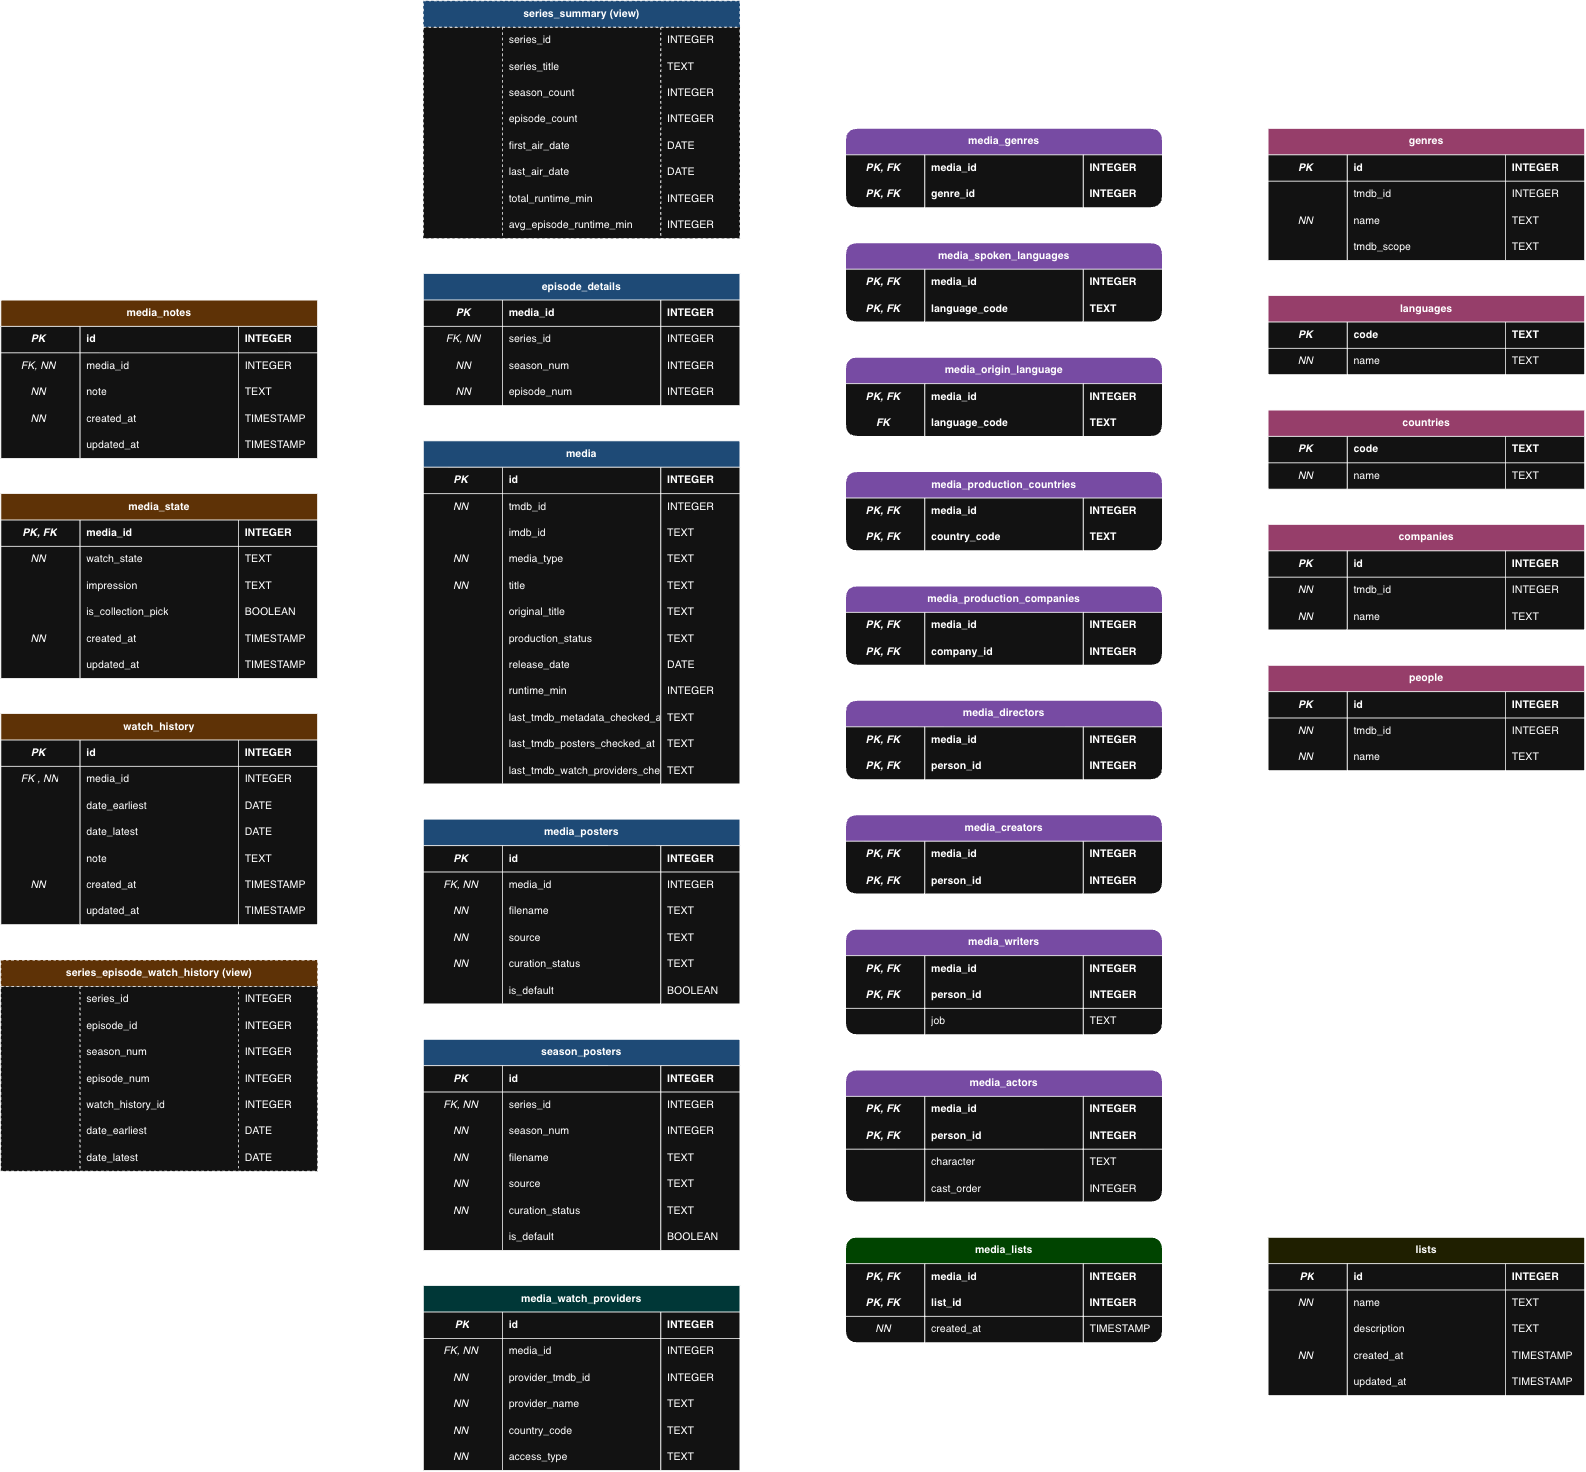
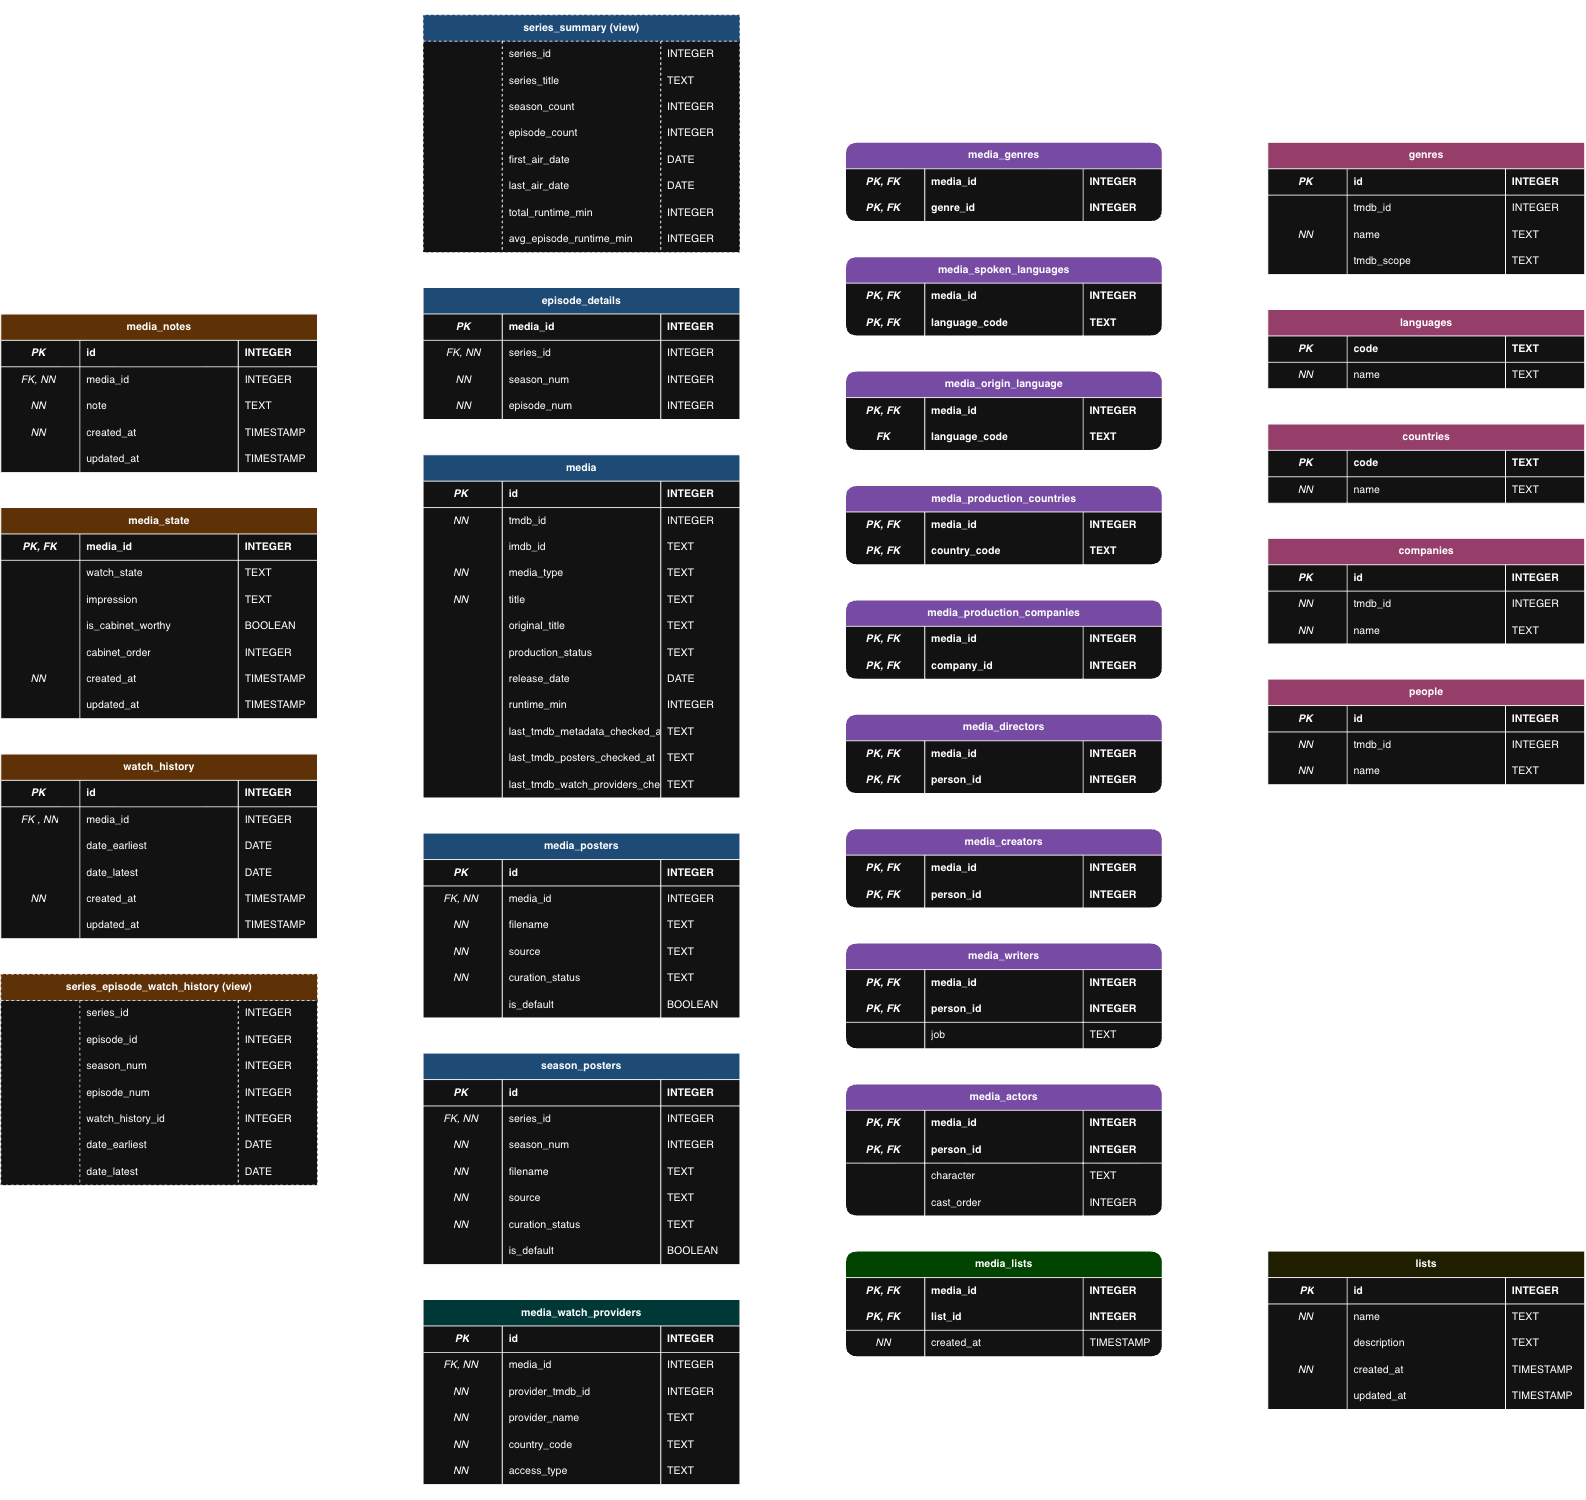
update readme

diff --git a/README.md b/README.md
@@ -1,5 +1,7 @@
 # My Watchlist+
 
+![My Watchlist+ Watchlist view](docs/images/app-overview-1.png)
+
 ## About the project
 
 This project is my (admittedly slightly overengineered) answer to a very simple problem: I wanted a watchlist for movies and TV series that I could truly make my own.
@@ -8,19 +10,22 @@ By that, I mean a local and independent experience where my data remains mine, a
 
 The result is a clean and enjoyable personal movie and TV series library, simple on the surface but detailed and flexible underneath, with plenty of room to explore and dig deeper.
 
-![My Watchlist+ application overview](docs/images/app-overview.png)
+![My Watchlist+ media details and History view](docs/images/app-overview-2.png)
 
 ## What it does
 
-- Find and add movies, TV series and individual episodes to your library
-- Use LLM-assisted search for title resolution and natural-language library queries
-- Retrieve and keep detailed metadata for every title
+- Add movies, TV series and individual episodes to your library
+- Find them using IMDb IDs, TMDB title search or optional AI-assisted lookup
+- Retrieve and store detailed metadata and poster artwork locally
 - Mark titles as *To Watch*, *Watched*, *Not Interested* or *Dropped* (for series)
-- Keep a complete and flexible watch history, including multiple viewings of the same title
-- Rate titles, keep notes, curate a personal collection and create custom lists
-- Choose and manage alternative posters for each title
-- Check streaming availability for a selected region
-- Filter, sort and pin titles to browse the collection
+- Record multiple viewings of the same title using exact dates, date ranges or none
+- Track series broadly or select the individual episodes watched in each viewing
+- Rate titles, keep notes and assign titles to custom lists
+- Build a personal *Cabinet* of favorite titles and arrange it in your own order
+- Choose, import and manage alternative posters for each title
+- Check subscription, rental and purchase availability for a selected region
+- Browse dedicated *Watchlist*, *History* and *Cabinet* views with adjustable poster layouts
+- Temporarily pin titles in the Watchlist to narrow down what to watch next
 
 ## Under the hood
 
@@ -28,13 +33,13 @@ At its core, this is a Python desktop application built with PySide6 and backed 
 
 The desktop/local-first approach is deliberate. The application is currently designed as a single-user tool, so keeping the interface, application logic and database on the same machine avoids introducing a client/server architecture that the current requirements do not need. It also keeps the project entirely within the Python ecosystem, which fits naturally with the data, recommendation and machine-learning experiments I want to explore later.
 
-Movie and TV metadata comes primarily from the TMDB API, while LLMs are used selectively where natural language is actually useful: resolving less straightforward title searches and translating natural-language requests into structured library queries.
+Movie and TV metadata comes primarily from the TMDB API, while optional LLM assistance acts as a fallback for more descriptive title searches, such as “the movie where Nicolas Cage plays Nicolas Cage”, which is considerably easier than remembering *The Unbearable Weight of Massive Talent*. Great movie, by the way.
 
 ## Database design
 
-I spent quite a bit of time thinking through the database model, and TV series quickly became one of its more interesting challenges. Movies are relatively straightforward units, while series can be tracked at very different levels of detail. A _Black Mirror_ episode may be worth treating almost like a movie of its own, with an independent watch state, a rating or even a poster. With _Friends_, the series itself may matter more, while episode progress still matters. With _ALF_, on the other hand, "I watched some _ALF_" may honestly be precise enough.
+I spent quite a bit of time thinking through the database model, and TV series quickly became one of its more interesting challenges. Movies are relatively straightforward units, while series can be tracked at very different levels of detail. A *Black Mirror* episode may be worth treating almost like a movie of its own, with an independent watch state, a rating or even a poster. With *Friends*, the series itself may matter more, while episode progress still matters. With *ALF*, on the other hand, "I watched some *ALF*" may honestly be precise enough.
 
-My solution to this central challenge was to let movies, series and episodes share the same core `media` model. Episodes remain linked to their parent series, but both the series and its individual episodes can be tracked independently, each with their own state, watch history, rating, notes, lists and poster. At the same time, episode-level information can still be brought together to track progress through the series. Detailed episode tracking is possible, but never required.
+My solution to this design problem was to let movies, series and episodes share the same core `media` model. Episodes remain linked to their parent series, but both the series and its individual episodes can be tracked independently, each with their own state, watch history, rating, notes, lists and poster. At the same time, episode-level information can still be brought together to track progress through the series. Detailed episode tracking is possible, but never required.
 
 <picture>
   <source media="(prefers-color-scheme: dark)" srcset="docs/images/database-schema-dark.png">
@@ -55,13 +60,14 @@ Coding agents, mainly OpenAI Codex, have become a major part of how I build this
 
 ## What's next
 
-The current version is already functional, but there are several directions I want to take it next:
+With the core library, history and Cabinet workflows in place, some of the directions I would like to explore next include:
 
-- Build richer and playful statistics and visualizations around the library and watch history
-- Add new metadata sources for awards, festivals and other information not readily available through TMDB
-- Experiment with personalized recommendation systems using machine learning, web scraping and public datasets
-- Develop a chatbot that adds a more personal layer to recommendations and offers an alternative way to interact with the library
-- Keep refining the existing application with smaller features, UI improvements and ongoing work on the codebase
+- Add richer filtering and sorting, including natural-language requests translated into structured library queries
+- Create playful statistics and visualizations around the library and watch history
+- Bring in new metadata sources for awards, festivals and information beyond TMDB
+- Experiment with personalized recommendations using machine learning and public datasets
+Develop a conversational, chatbot-like interface for discovering titles and interacting with the library
+- Keep refining the application with smaller features, UI improvements and ongoing work on the codebase
 
 ## Running locally
 
@@ -92,7 +98,7 @@ You can also adjust the watch region in `settings.toml`.
 python main.py
 ```
 
-The SQLite database is created automatically at `data/media.db`, while downloaded posters are stored in `data/media_posters/`. Both remain local and are excluded from version control.
+The SQLite database is created automatically at `data/media.db`, while downloaded and imported posters are stored in `data/media_posters/`. Both remain local and are excluded from version control.
 
 The application has been developed and tested on macOS 26 with Python 3.13. Other platforms may work, but have not yet been formally tested.
 
@@ -101,29 +107,33 @@ The application has been developed and tested on macOS 26 with Python 3.13. Othe
 The codebase is organized around a small set of responsibilities:
 
 ```text
-app/                       # application source code
-├── assets/                # bundled UI icons and images
-├── find_media/            # media search and title resolution
-├── history/               # watch history interface and queries
-├── media_details/         # media details and editing workflows
-├── media_draft/           # media draft building and saving
-├── media_repository/      # persistence and data access
-├── media_user_data/       # domain logic for lists, notes and watch data
-├── metadata_refresh/      # background metadata refresh workflows
-├── tmdb/                  # TMDB integration
-├── ui/                    # shared UI components
-└── watchlist/             # main watchlist interface
+app/                           # application source code
+├── assets/                    # bundled UI icons and images
+├── cabinet/                   # curated Cabinet view and custom ordering
+├── find_media/                # title search, matching and AI-assisted lookup
+├── history/                   # watch history views and queries
+├── media_details/             # media details and editing workflows
+├── media_draft/               # media draft building and save orchestration
+├── media_repository/          # persistence and data access
+├── media_user_data/           # domain logic for states, history, notes and lists
+├── metadata_refresh/          # background TMDB metadata refresh
+├── tmdb/                      # TMDB API integration
+├── ui/                        # shared interface components
+├── watch_provider_refresh/    # background streaming-availability refresh
+├── watchlist/                 # main Watchlist view and poster board
+├── config.py                  # environment variables and application settings
+└── paths.py                   # shared project and data paths
 
-db/                        # database connection, schema, migrations and seed data
-data/                      # local SQLite database and downloaded posters
-docs/                      # project documentation
-scripts/                   # import and maintenance utilities
-tests/                     # automated test suite
+db/                            # SQLite connection, schema, migrations and seed data
+data/                          # local database and downloaded or imported poster artwork
+docs/                          # documentation images and diagrams
+scripts/                       # import, export and maintenance utilities
+tests/                         # automated unit and interface tests
 
-main.py                    # application entry point
-settings.toml              # application settings
-.env.example               # environment variable template
-requirements.txt           # Python dependencies
+main.py                        # application entry point
+settings.toml                  # TMDB and watch-provider settings
+.env.example                   # environment variable template
+requirements.txt               # Python dependencies
 ```
 
 ## Data sources and attribution
